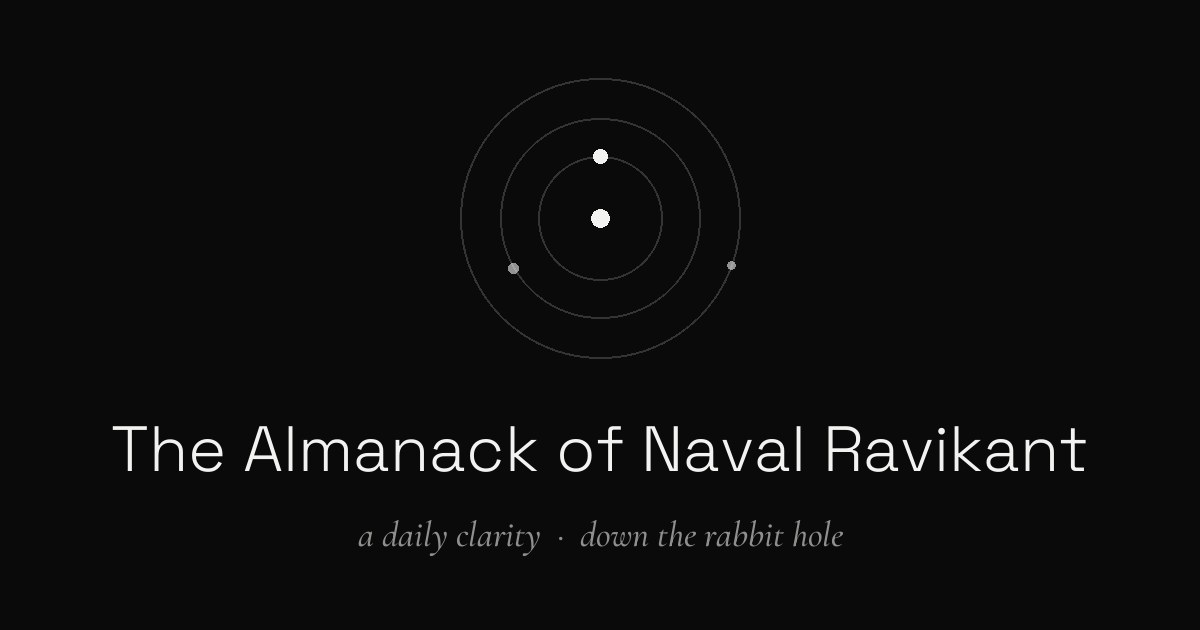
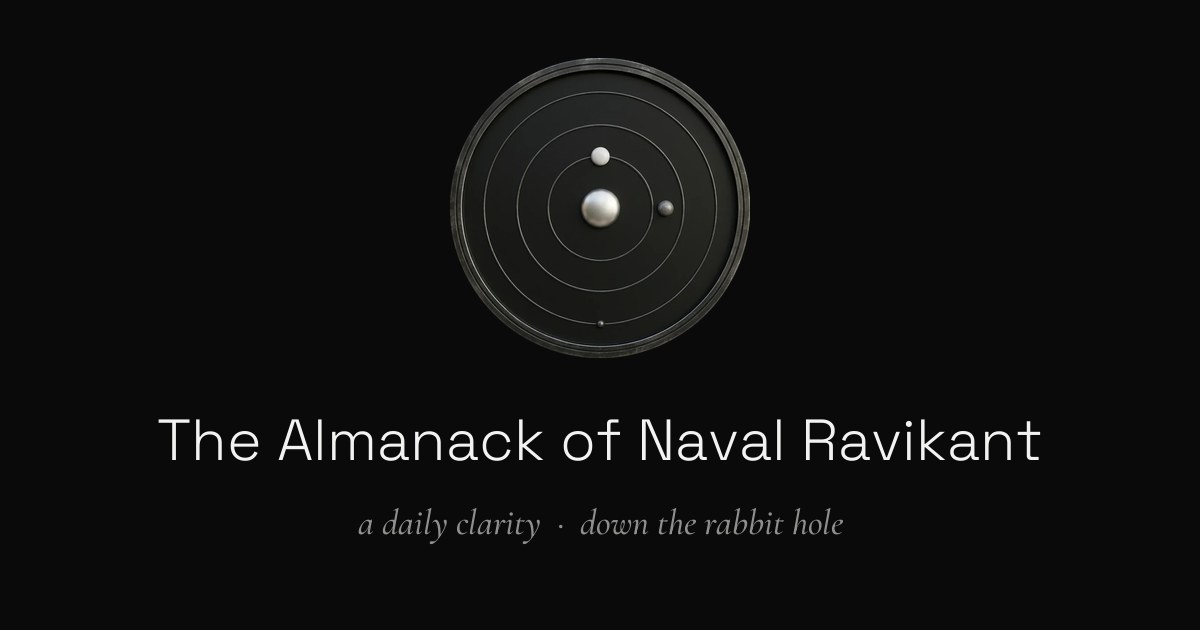
The Almanack gets a real medallion
Swaps the drawn SVG orbit for the orbit medallion on the book page, in
the library world, and on the share card. It now sits in the same
language as Dune's sandworm and the Marcus disc instead of reading as a
diagram among photographs.

The shared view-transition-name is preserved on both sides, so the
medallion still morphs between the library and the book page. Library
copy is lazy-loaded and both carry width/height so the box reserves its
space. Added height:auto, since width:100% alone would have stretched an
800x800 file to the container height.

Trade worth noting: the drawn version rotated, three masses at three
speeds. A photographed medallion is static. It gains presence on the
shelf and loses that motion.

Changed region(s): [[0.37, 0.0905, 0.6475, 0.573], [0.0925, 0.6635, 0.925, 0.754], [0.2775, 0.8143, 0.7092, 0.8746]]

diff --git a/index.html b/index.html
@@ -376,16 +376,8 @@
     #naval .w-line { color:#c9c9c6; }
     #naval .enter { color:#f2f2f0; border-color:rgba(242,242,240,0.45); }
     #naval .enter:hover { background:rgba(242,242,240,0.08); box-shadow:0 0 18px rgba(242,242,240,0.2); }
-    .orbit-mark { width:100%; display:block; }
-    .orbit-mark .oc { fill:none; stroke:rgba(242,242,240,0.18); stroke-width:1; }
-    .orbit-mark .og { transform-origin:200px 200px; }
-    .orbit-mark .og.o1 { animation: orbSpin 26s linear infinite; }
-    .orbit-mark .og.o2 { animation: orbSpin 44s linear infinite reverse; }
-    .orbit-mark .og.o3 { animation: orbSpin 70s linear infinite; }
-    @keyframes orbSpin { to { transform: rotate(360deg); } }
-    .orbit-mark .od { fill:#f2f2f0; }
-    .orbit-mark .od.dim { fill:rgba(242,242,240,0.55); }
-    .orbit-mark .core { fill:#f2f2f0; }
+    .orbit-mark { width:100%; height:auto; display:block;
+      filter: drop-shadow(0 0 28px rgba(242,242,240,0.16)) drop-shadow(0 0 10px rgba(0,0,0,0.65)); }
     #naval .wp { animation: pdMed linear infinite; }
     #naval .wp::before { content:attr(data-char); color:#c9c9c6; font-size:inherit; line-height:1; font-family:'Space Grotesk', sans-serif; }
 
@@ -904,15 +896,7 @@
 <section class="world flip" id="naval" data-place="The Almanack" data-accent="#d6d6d4" aria-label="The Almanack of Naval Ravikant">
   <div class="wash"></div>
   <div class="panel">
-    <div class="art rv" style="--d:0ms"><div class="medal"><svg class="orbit-mark" viewBox="0 0 400 400" role="img" aria-label="Three masses orbiting one center">
-      <circle class="oc" cx="200" cy="200" r="70"/>
-      <circle class="oc" cx="200" cy="200" r="112"/>
-      <circle class="oc" cx="200" cy="200" r="156"/>
-      <g class="og o1"><circle class="od" cx="200" cy="130" r="7"/></g>
-      <g class="og o2"><circle class="od dim" cx="200" cy="88" r="5"/></g>
-      <g class="og o3"><circle class="od dim" cx="200" cy="44" r="3.6"/></g>
-      <circle class="core" cx="200" cy="200" r="9"/>
-    </svg></div></div>
+    <div class="art rv" style="--d:0ms"><div class="medal"><img class="orbit-mark" loading="lazy" decoding="async" src="assets/naval-orbit.webp" width="800" height="800" alt="An orbit medallion: three masses circling one centre"/></div></div>
     <div class="copy">
       <div class="eyebrow rv" style="--d:80ms">&middot; a daily clarity &middot;</div>
       <h2 class="w-title rv" style="--d:150ms">The Almanack<br/><span class="thin">of Naval Ravikant</span></h2>

diff --git a/naval.html b/naval.html
@@ -331,6 +331,7 @@
     .hero-container:hover .hero-img, .hero-container.tapped .hero-img { filter: drop-shadow(0 0 28px rgba(216,216,214,0.35)) drop-shadow(0 0 10px rgba(0,0,0,0.4)); opacity: 0.95; brightness(1.1); }
     .hero-img {
       width: 100%;
+      height: auto;
       display: block;
       transition: filter 0.5s ease, opacity 0.5s ease;
       filter: drop-shadow(0 0 20px rgba(148,148,146,0.3)) drop-shadow(0 0 10px rgba(0,0,0,0.5));
@@ -858,19 +859,7 @@
 
     /* ── ORBIT MARK — leverage: small mass, wide reach ── */
     body { font-synthesis: none; }
-    .hero-img .oc { fill: none; stroke: rgba(242,242,240,0.18); stroke-width: 1; }
-    .hero-img .og { transform-origin: 200px 200px; }
-    .hero-img .og.o1 { animation: orbSpin 26s linear infinite; }
-    .hero-img .og.o2 { animation: orbSpin 44s linear infinite reverse; }
-    .hero-img .og.o3 { animation: orbSpin 70s linear infinite; }
-    .hero-container.tapped .og.o1 { animation-duration: 5s; }
-    .hero-container.tapped .og.o2 { animation-duration: 8s; }
-    .hero-container.tapped .og.o3 { animation-duration: 13s; }
-    @keyframes orbSpin { to { transform: rotate(360deg); } }
-    .hero-img .od { fill: #f2f2f0; }
-    .hero-img .od.dim { fill: rgba(242,242,240,0.55); }
-    .hero-img .core { fill: #f2f2f0; }
-    @media (prefers-reduced-motion: reduce) { .hero-img .og { animation: none !important; } }
+
   </style>
   <style>
     /* ── cross-document view transitions: the book's art morphs between pages ── */
@@ -954,15 +943,7 @@
 <main>
 
   <div class="hero-container">
-    <svg class="hero-img" viewBox="0 0 400 400" role="img" aria-label="Three masses orbiting one center">
-      <circle class="oc" cx="200" cy="200" r="70"/>
-      <circle class="oc" cx="200" cy="200" r="112"/>
-      <circle class="oc" cx="200" cy="200" r="156"/>
-      <g class="og o1"><circle class="od" cx="200" cy="130" r="7"/></g>
-      <g class="og o2"><circle class="od dim" cx="200" cy="88" r="5"/></g>
-      <g class="og o3"><circle class="od dim" cx="200" cy="44" r="3.6"/></g>
-      <circle class="core" cx="200" cy="200" r="9"/>
-    </svg>
+    <img class="hero-img" src="assets/naval-orbit.webp" width="800" height="800" alt="An orbit medallion: three masses circling one centre"/>
   </div>
 
   <div class="headline">
